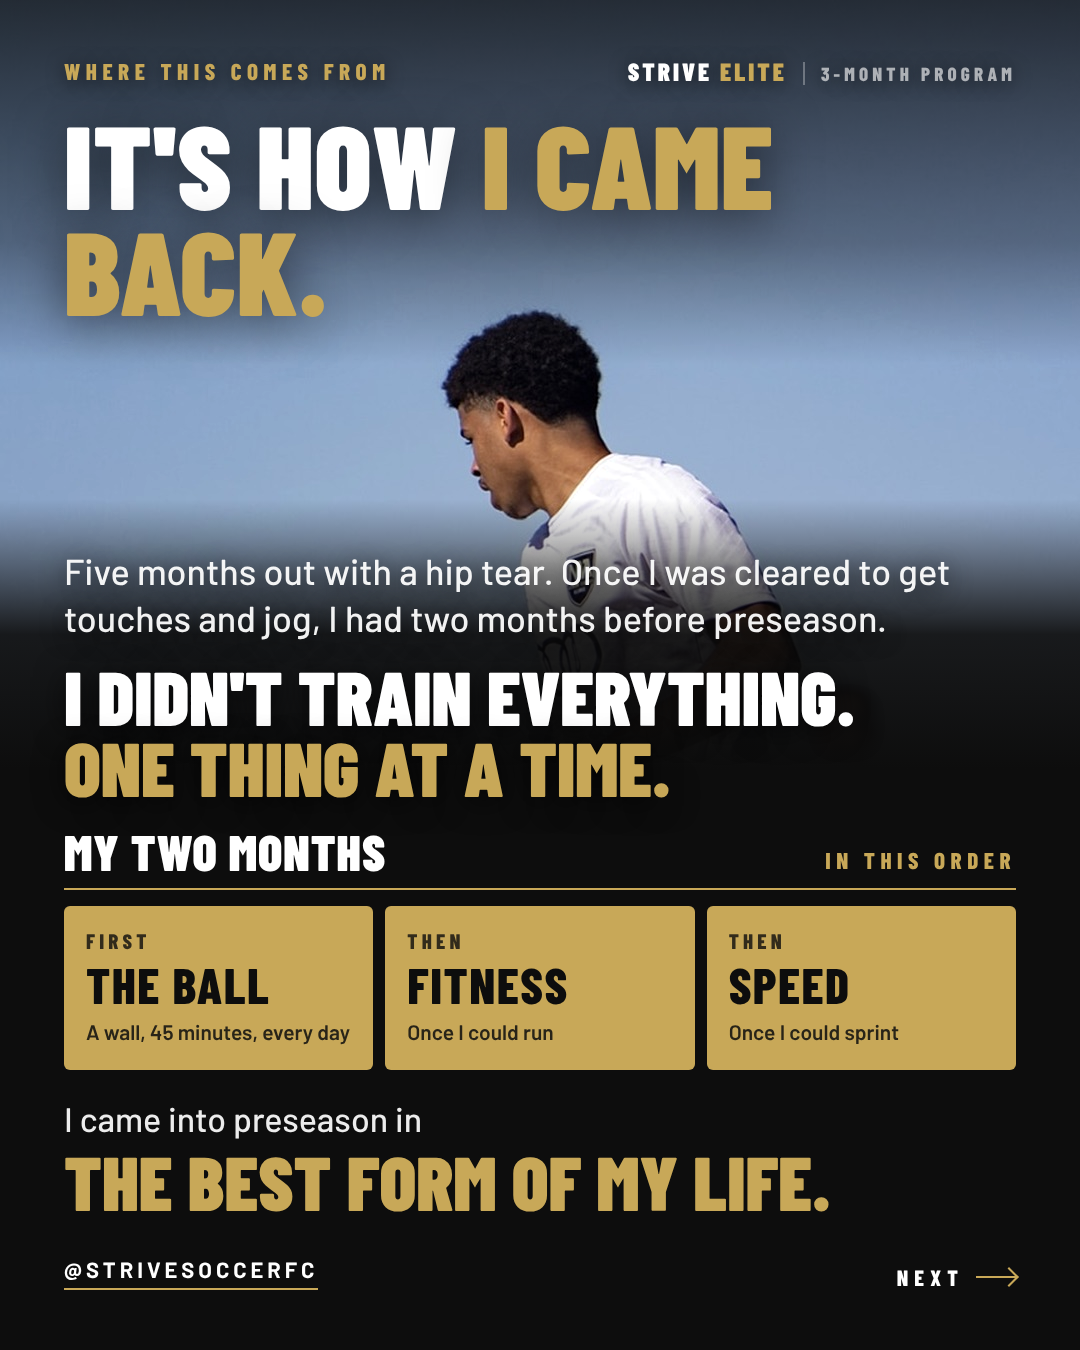
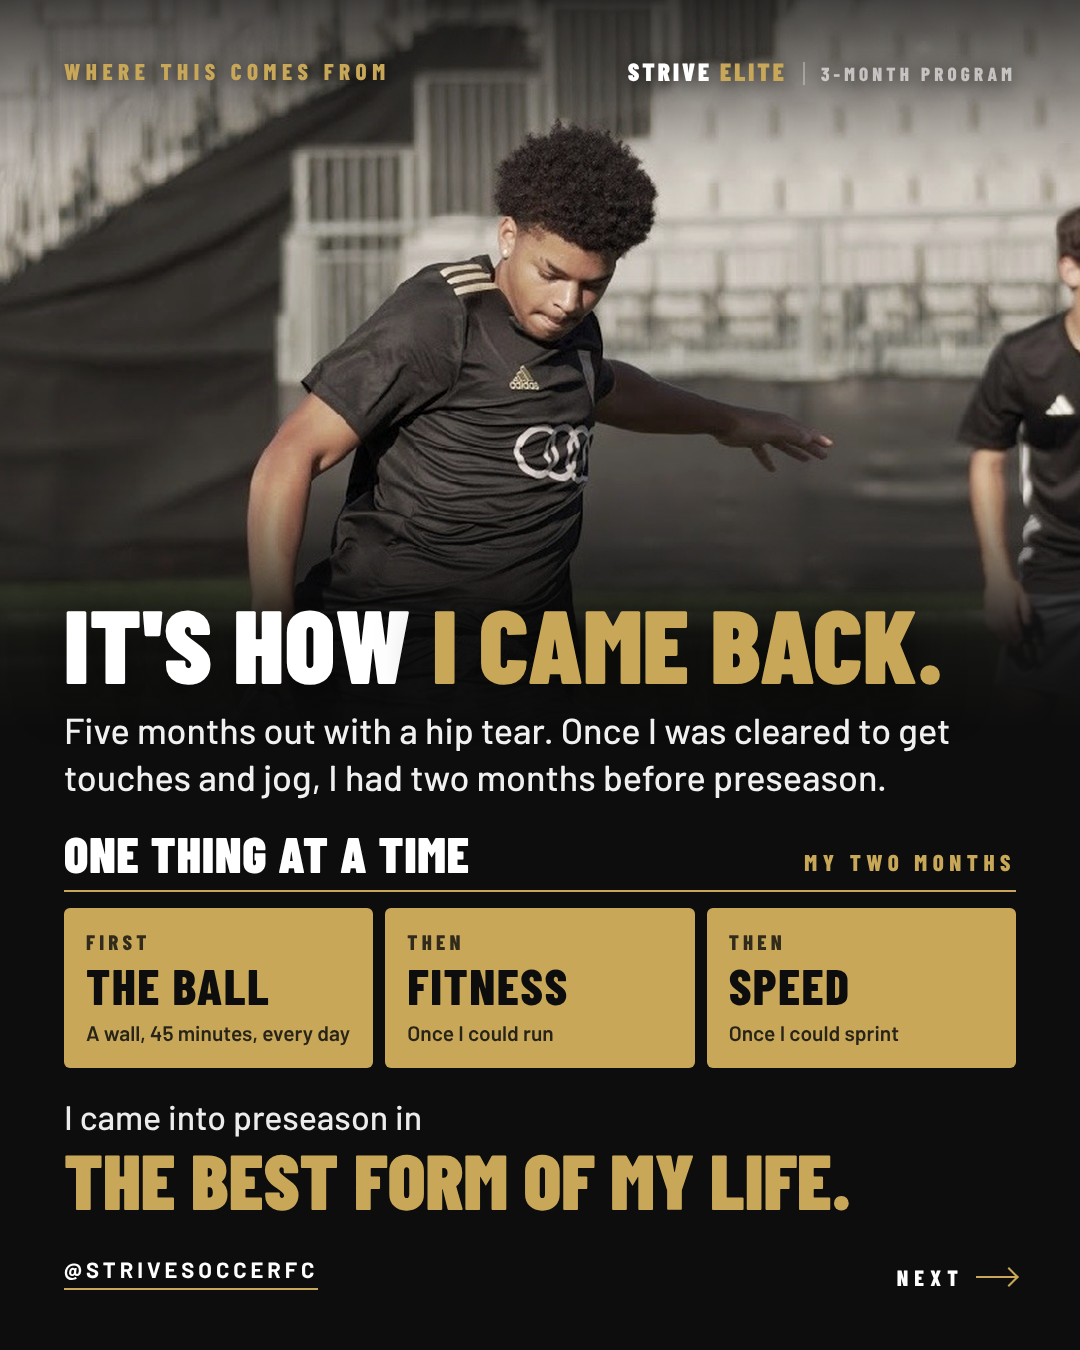
Opinion carousel: comeback slide on his stadium strike photo, him centred
Claude-Session: https://claude.ai/code/session_011JsCTTjCbUkHbTuWTKQSXJ

diff --git a/marketing/program/one-thing-carousel-3/07-story.html b/marketing/program/one-thing-carousel-3/07-story.html
@@ -1,29 +1,26 @@
 <!doctype html><meta charset="utf-8"><link rel="stylesheet" href="../../covers/strive-elite-meeting/fonts.css"><link rel="stylesheet" href="style.css"><title>How I came back</title>
 <style>
-.ph{position:absolute;inset:0;background:url(photos/story.jpg) center top/1080px 1350px;filter:saturate(.88) contrast(1.05)}
-.sh{position:absolute;inset:0;background:linear-gradient(180deg,rgba(13,13,13,.78) 0%,rgba(13,13,13,.4) 18%,rgba(13,13,13,0) 27%,rgba(13,13,13,0) 37%,rgba(13,13,13,.92) 47%,#0d0d0d 57%,#0d0d0d 100%)}
-h1{position:absolute;left:64px;right:64px;top:110px;font-size:118px;text-shadow:0 8px 50px rgba(0,0,0,.55)}
+.ph{position:absolute;inset:0;background:url(photos/story.jpg) center top/1080px 1350px;filter:saturate(.8) contrast(1.05)}
+.sh{position:absolute;inset:0;background:linear-gradient(180deg,rgba(13,13,13,.72) 0%,rgba(13,13,13,0) 13%,rgba(13,13,13,0) 36%,rgba(13,13,13,.9) 47%,#0d0d0d 54%,#0d0d0d 100%)}
 .low{position:absolute;left:64px;right:64px;bottom:134px}
-.p{font-size:36px;line-height:1.3;text-shadow:0 4px 24px rgba(0,0,0,.8)}
-.k{margin-top:18px;font-family:'Barlow Condensed';font-weight:900;font-size:76px;line-height:.94;text-transform:uppercase;color:#fff;text-shadow:0 4px 30px rgba(0,0,0,.7)}
-.k span{color:#c8a858}
-.sched{margin-top:26px}
+h1{font-size:104px;white-space:nowrap;text-shadow:0 8px 50px rgba(0,0,0,.7)}
+.p{margin-top:18px;font-size:36px;line-height:1.3}
+.sched{margin-top:30px}
 .tt3{display:grid;grid-template-columns:repeat(3,1fr);gap:12px}
-.tt3 .bk{height:164px;font-size:50px;padding:0 22px}
+.tt3 .bk{height:160px;font-size:50px;padding:0 22px}
 .tt3 .bk small{font-size:21px;margin-bottom:8px;opacity:.8}
 .tt3 .bk i{display:block;margin-top:10px;font-family:'Barlow';font-style:normal;font-weight:600;font-size:21px;line-height:1.2;letter-spacing:0;text-transform:none;opacity:.85}
 .res{margin-top:28px}
-.res b{font-family:'Barlow Condensed';font-weight:900;font-size:76px;line-height:.94;text-transform:uppercase;color:#c8a858}
+.res b{display:block;font-family:'Barlow Condensed';font-weight:900;font-size:78px;line-height:.94;text-transform:uppercase;color:#c8a858}
 .res span{display:block;font-size:34px;font-weight:500;color:rgba(255,255,255,.92);margin-bottom:6px}
-.top .wm,.top .step{text-shadow:0 2px 18px rgba(0,0,0,.6)}
+.top .wm,.top .step{text-shadow:0 2px 18px rgba(0,0,0,.8)}
 </style>
 <div class="ph"></div><div class="sh"></div>
 <div class="top"><div class="step">Where this comes from</div><div class="wm">Strive <span>Elite</span><em>3-month program</em></div></div>
-<h1>It's how <span>I came back.</span></h1>
 <div class="low">
+<h1>It's how <span>I came back.</span></h1>
 <p class="p">Five months out with a hip tear. Once I was cleared to get touches and jog, I had two months before preseason.</p>
-<div class="k">I didn&#39;t train everything.<br><span>One thing at a time.</span></div>
-<div class="sched"><div class="hd"><b>My two months</b><span>In this order</span></div>
+<div class="sched"><div class="hd"><b>One thing at a time</b><span>My two months</span></div>
 <div class="tt3"><div class="bk g"><small>First</small>The ball<i>A wall, 45 minutes, every day</i></div><div class="bk g"><small>Then</small>Fitness<i>Once I could run</i></div><div class="bk g"><small>Then</small>Speed<i>Once I could sprint</i></div></div></div>
 <div class="res"><span>I came into preseason in</span><b>the best form of my life.</b></div></div>
 <div class="handle">@strivesoccerfc</div><div class="swipe">Next <i></i></div>

diff --git a/CLAUDE.md b/CLAUDE.md
@@ -4022,6 +4022,7 @@ commit.
       THEN (Coach Yinka: "Instead of pop and settle name it pop and juggle"): the Week 2 card is "Weak foot pop and juggle", 3 x 1 min, rest 30 sec (the bank's title and reps), with a frame of its own clip. The bank has it one level above tap, pull, push, so the slide now matches what the app does in a second week; the level flag above is closed. Read as the drill on the slide, not a rename of the bank's pop and settle row (untouched). Sent, not posted.
       THEN (Coach Yinka: "No keep the old pic bc it was popped up nicely then. Adjust the page of my story to make more sense with the post and to be structured better"): (1) the Week 2 card stays named "Weak foot pop and juggle" and carries the earlier frame with the ball popped up (a frame of the pop and settle clip, the same take the two drills were cut from). (2) THE COMEBACK SLIDE RESTRUCTURED to run in the post's own order and words, four parts, no paragraphs: "Six months out with a hip tear. Two months to get ready for a more competitive team." / "I DIDN'T TRAIN EVERYTHING. ONE THING AT A TIME." (the cover turned around, the close repeats it) / the schedule graphic "MY TWO MONTHS, in this order": First THE BALL (A wall, 45 minutes, every day), Then FITNESS (Once I could run), Then SPEED (Once I could sprint) / "BENCH PLAYER TO STARTER." The two lines that were my wording ("no time to fix everything at once", "the rest of my game kept moving") are gone. Sent, not posted.
       THEN (Coach Yinka: "Just say 5 months out with a hip tear, once I was cleared to get touches/ jog, I had 2 monfhs before preseason and I came into preseason in the best form of my life"): the comeback slide carries his words: "Five months out with a hip tear. Once I was cleared to get touches and jog, I had two months before preseason." / "I DIDN'T TRAIN EVERYTHING. ONE THING AT A TIME." / My two months, in this order (the ball, fitness, speed) / "I came into preseason in THE BEST FORM OF MY LIFE." "Bench player to starter" and "a more competitive team" are off this slide. HIS STORY IS FIVE MONTHS OUT from here (the Nov 11 entries above say six, his first wording); the draft caption is updated; the shorter structure carousel's cover and drafts 1 and 2 still say six and need the same change if any of them is used. Sent, not posted.
+      THEN (Coach Yinka sent a photo of himself striking a ball in the black NVA training kit, stadium seats behind: "Center me In the pic better and use this pic"): the comeback slide carries that photo (photos/src/yinka-strike-stadium.jpg, scaled 1.33x so he sits on the centre line, head and chest clear in the top half). To give the photo the room, the headline moved under it on one line and "One thing at a time" became the header of the schedule (the separate "I didn't train everything" line is gone); his words and the three blocks are unchanged. A teammate's shoulder shows at the right edge, no face. Sent, not posted.
 
 ## Skills (use them without being asked)
 

diff --git a/marketing/program/one-thing-carousel-3/README.md b/marketing/program/one-thing-carousel-3/README.md
@@ -62,12 +62,13 @@ the strength finisher or the speed drill.
    leg). Still easy? EYES CLOSED. /
    Nobody gets stronger lifting the same weight all year. Same with your
    touch.
-7. IT'S HOW I CAME BACK. / Five months out with a hip tear. Once I was
-   cleared to get touches and jog, I had two months before preseason. /
-   I DIDN'T TRAIN EVERYTHING. ONE THING AT A TIME. / My two months, in
-   this order: first the ball (a wall, 45 minutes, every day), then
-   fitness (once I could run), then speed (once I could sprint). / I came
-   into preseason in THE BEST FORM OF MY LIFE. (His words, Nov 11.)
+7. His strike photo in the black NVA training kit, him centred, across
+   the top half. / IT'S HOW I CAME BACK. / Five months out with a hip
+   tear. Once I was cleared to get touches and jog, I had two months
+   before preseason. / ONE THING AT A TIME, my two months: first the ball
+   (a wall, 45 minutes, every day), then fitness (once I could run), then
+   speed (once I could sprint). / I came into preseason in THE BEST FORM
+   OF MY LIFE. (His words and his photo, Nov 11.)
 8. "BUT I'VE GOT MORE THAN ONE THING TO FIX." / Good. It's three months.
    You get six. Coach Gary and I ask what's holding you back, then put
    them in order. Biggest problem first.
